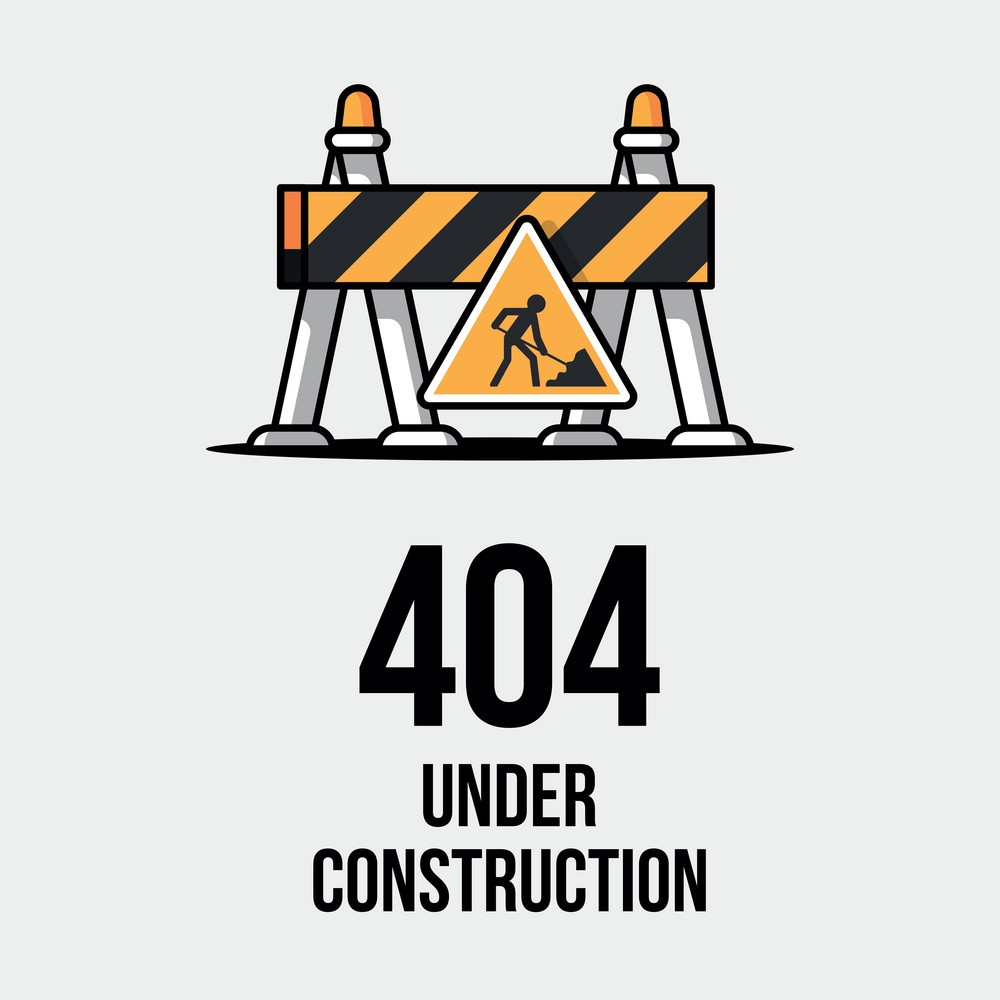
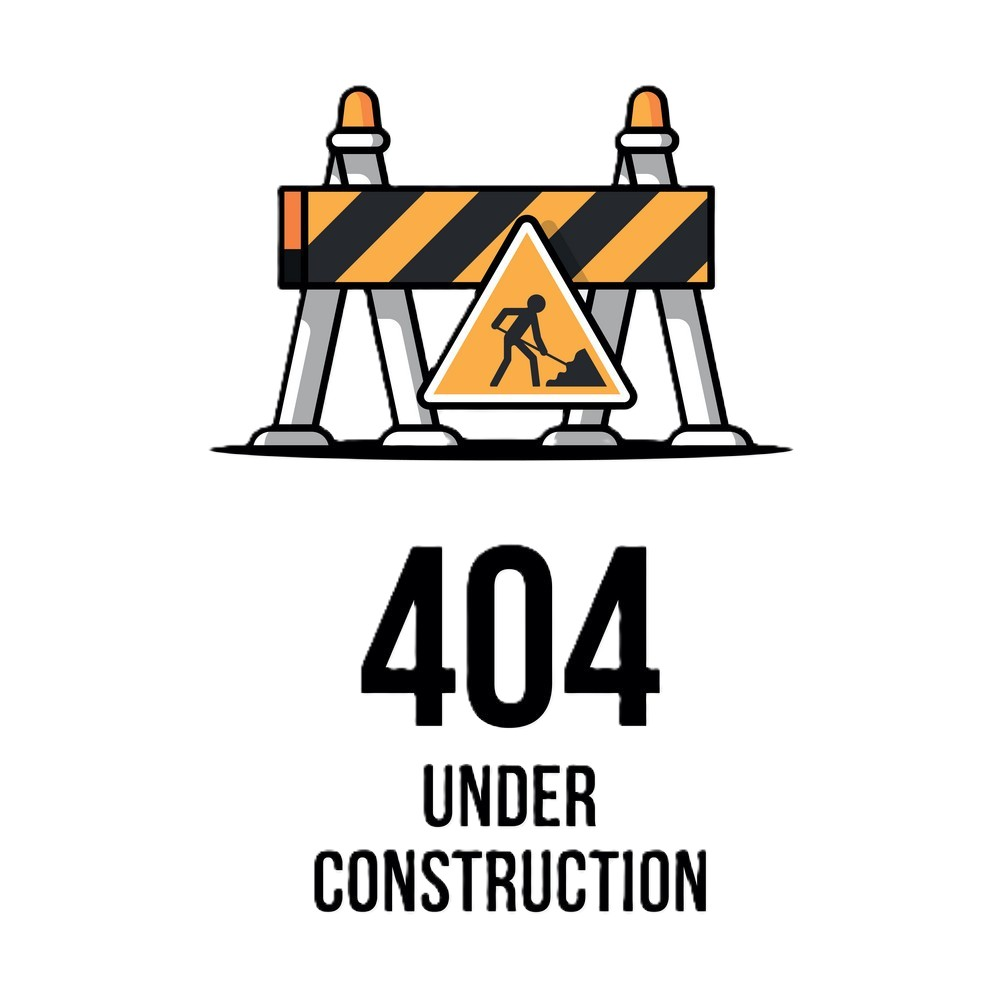
Change image

diff --git a/src/RoadmapsPage.jsx b/src/RoadmapsPage.jsx
@@ -2,10 +2,11 @@ import React from "react";
 
 export default function RoadmapsPage() {
     return (
-        <section className="h-[calc(100vh-154px)] md:h-[calc(100vh-74px)] flex justify-center bg-gray-200">
+        <section className="h-[calc(100vh-154px)] md:h-[calc(100vh-74px)] flex justify-center ">
             <img 
                 src='/images/UnderConstruction.jpg' 
                 alt="404 Under Construction image"
+                className="m-2"
             >
             </img>
         </section>
